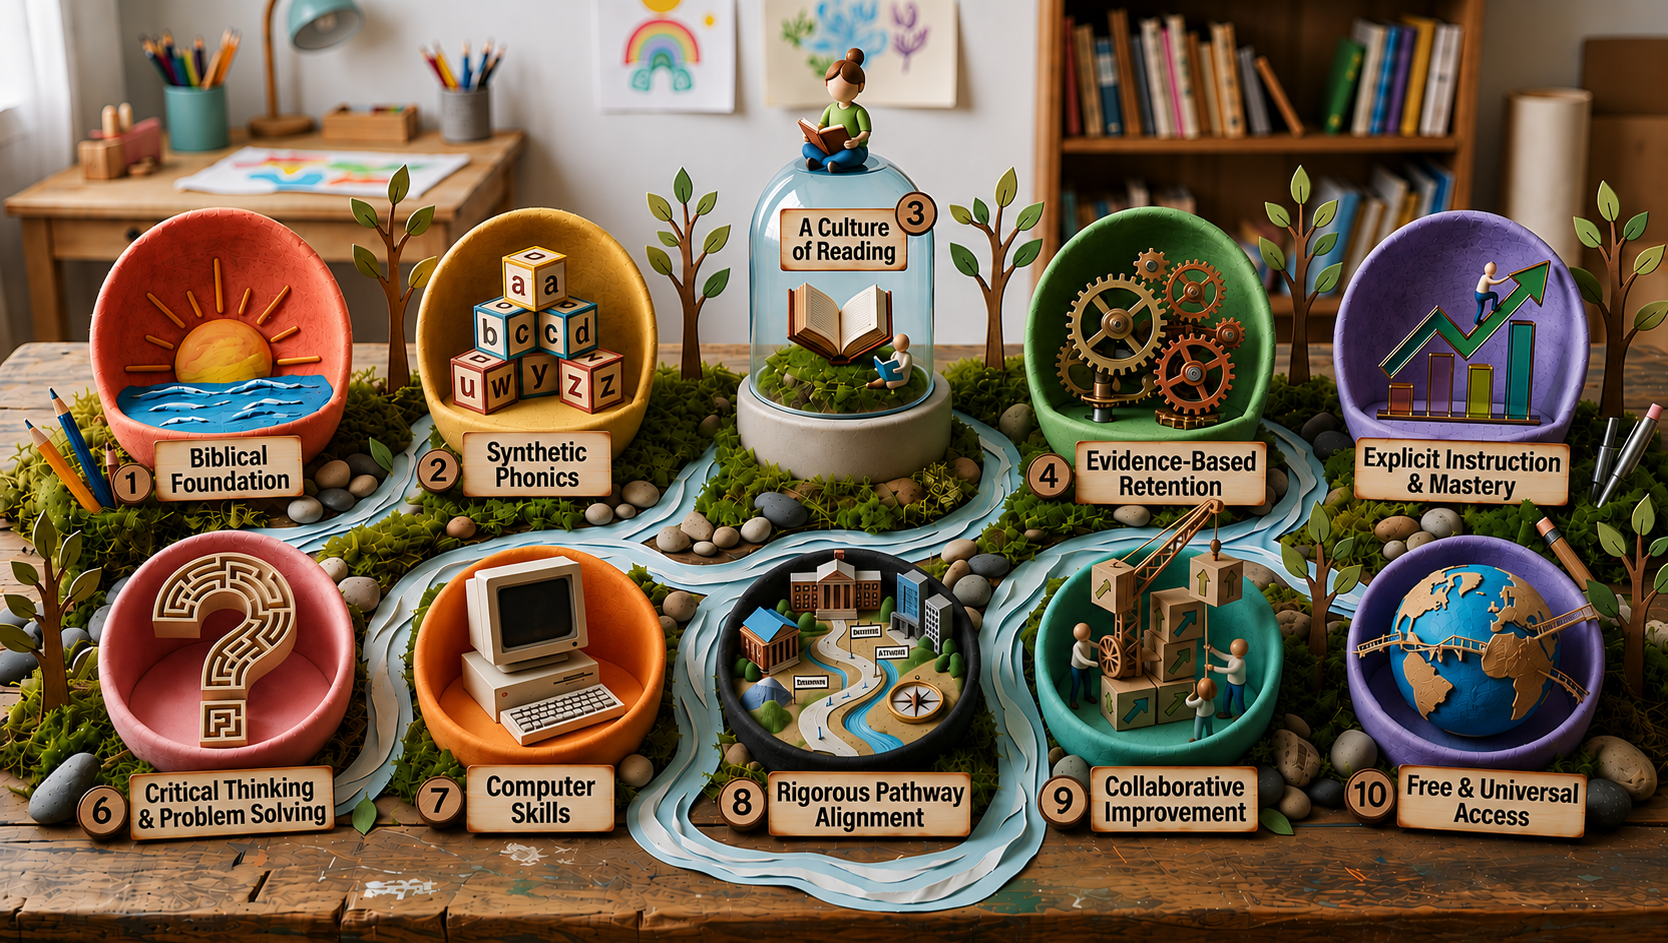
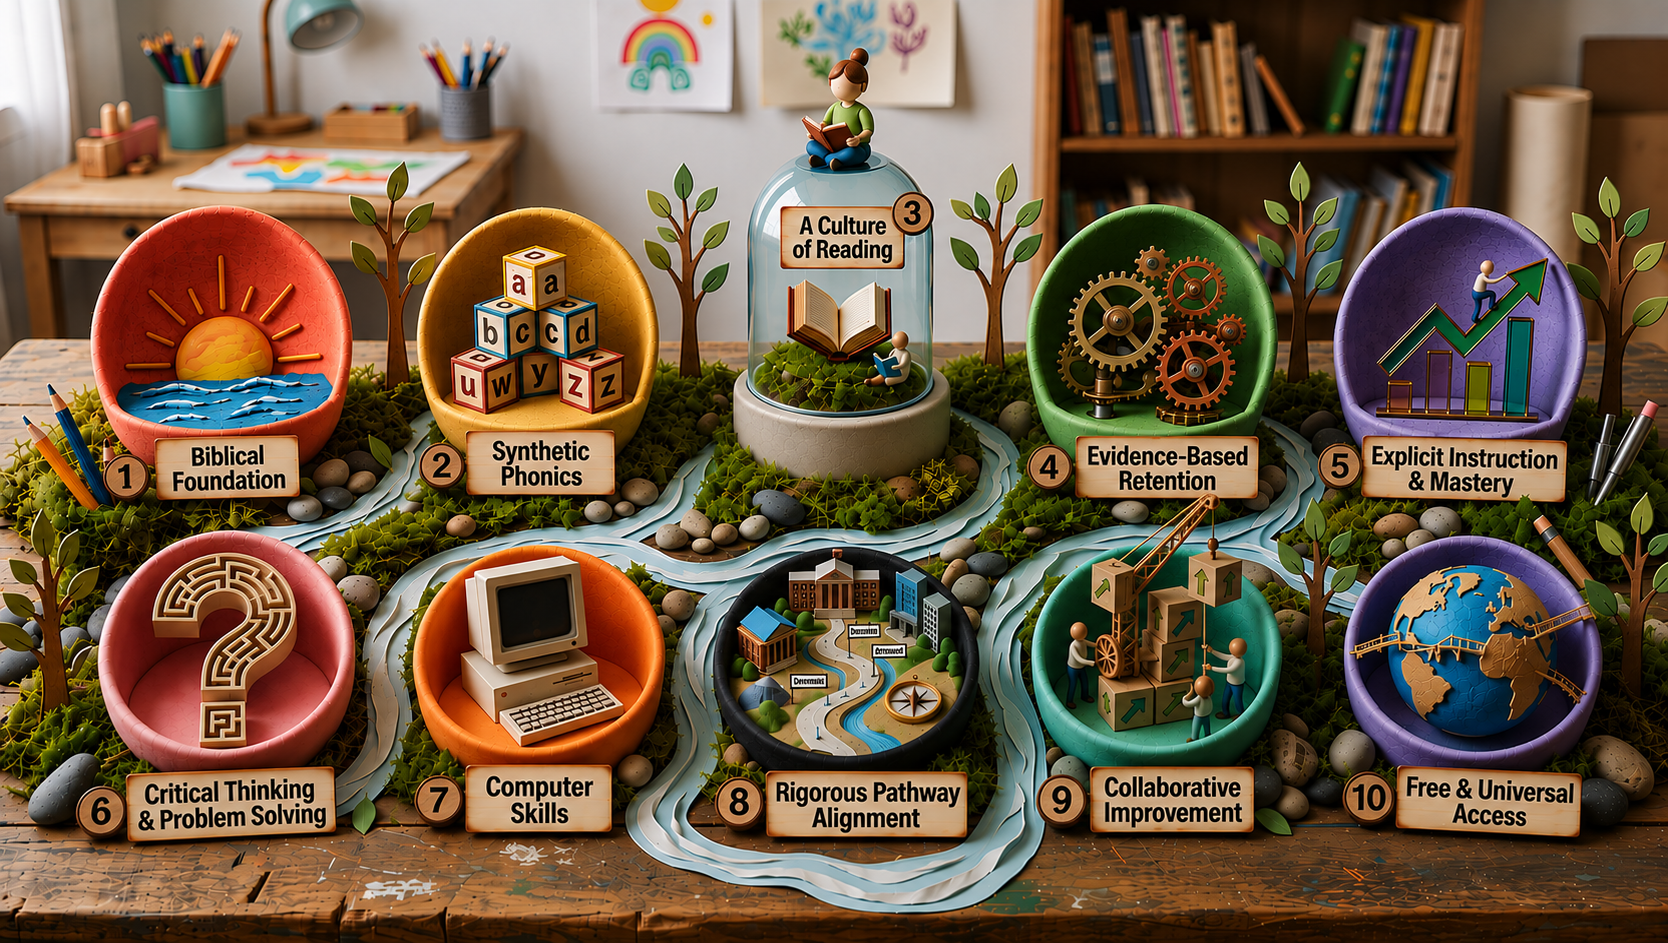
Nudge welcome-card content up and swap in login artwork

diff --git a/apps/web/styles/components.css b/apps/web/styles/components.css
@@ -513,7 +513,7 @@ body.onboarding {
 /* The welcome card floats over the artwork: a faint centred glow instead of a
    solid panel, pushed down so the "A Culture of Reading" dome stays clear. */
 .on-welcome {
-    padding: 40px 20px 36px;
+    padding: 38px 20px 36px;
     margin-top: clamp(24px, 7vh, 72px);
     background: radial-gradient(
         130% 115% at 50% 28%,
